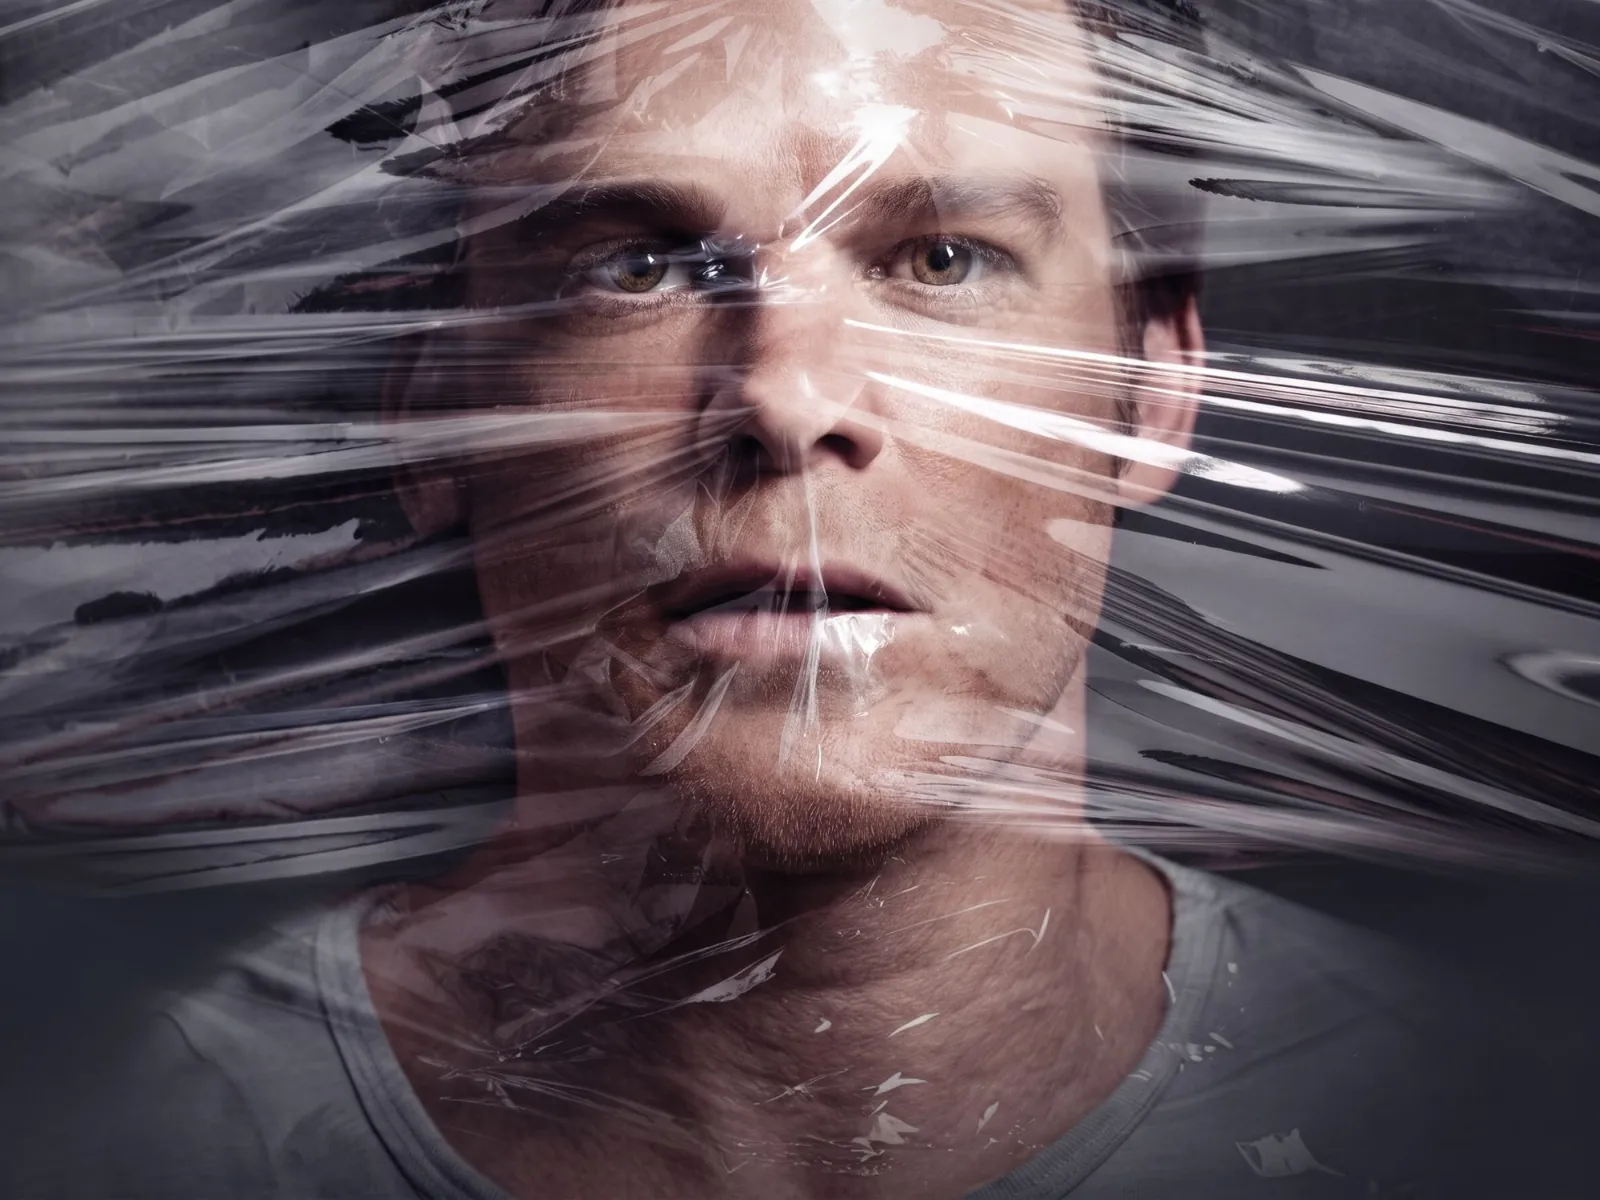
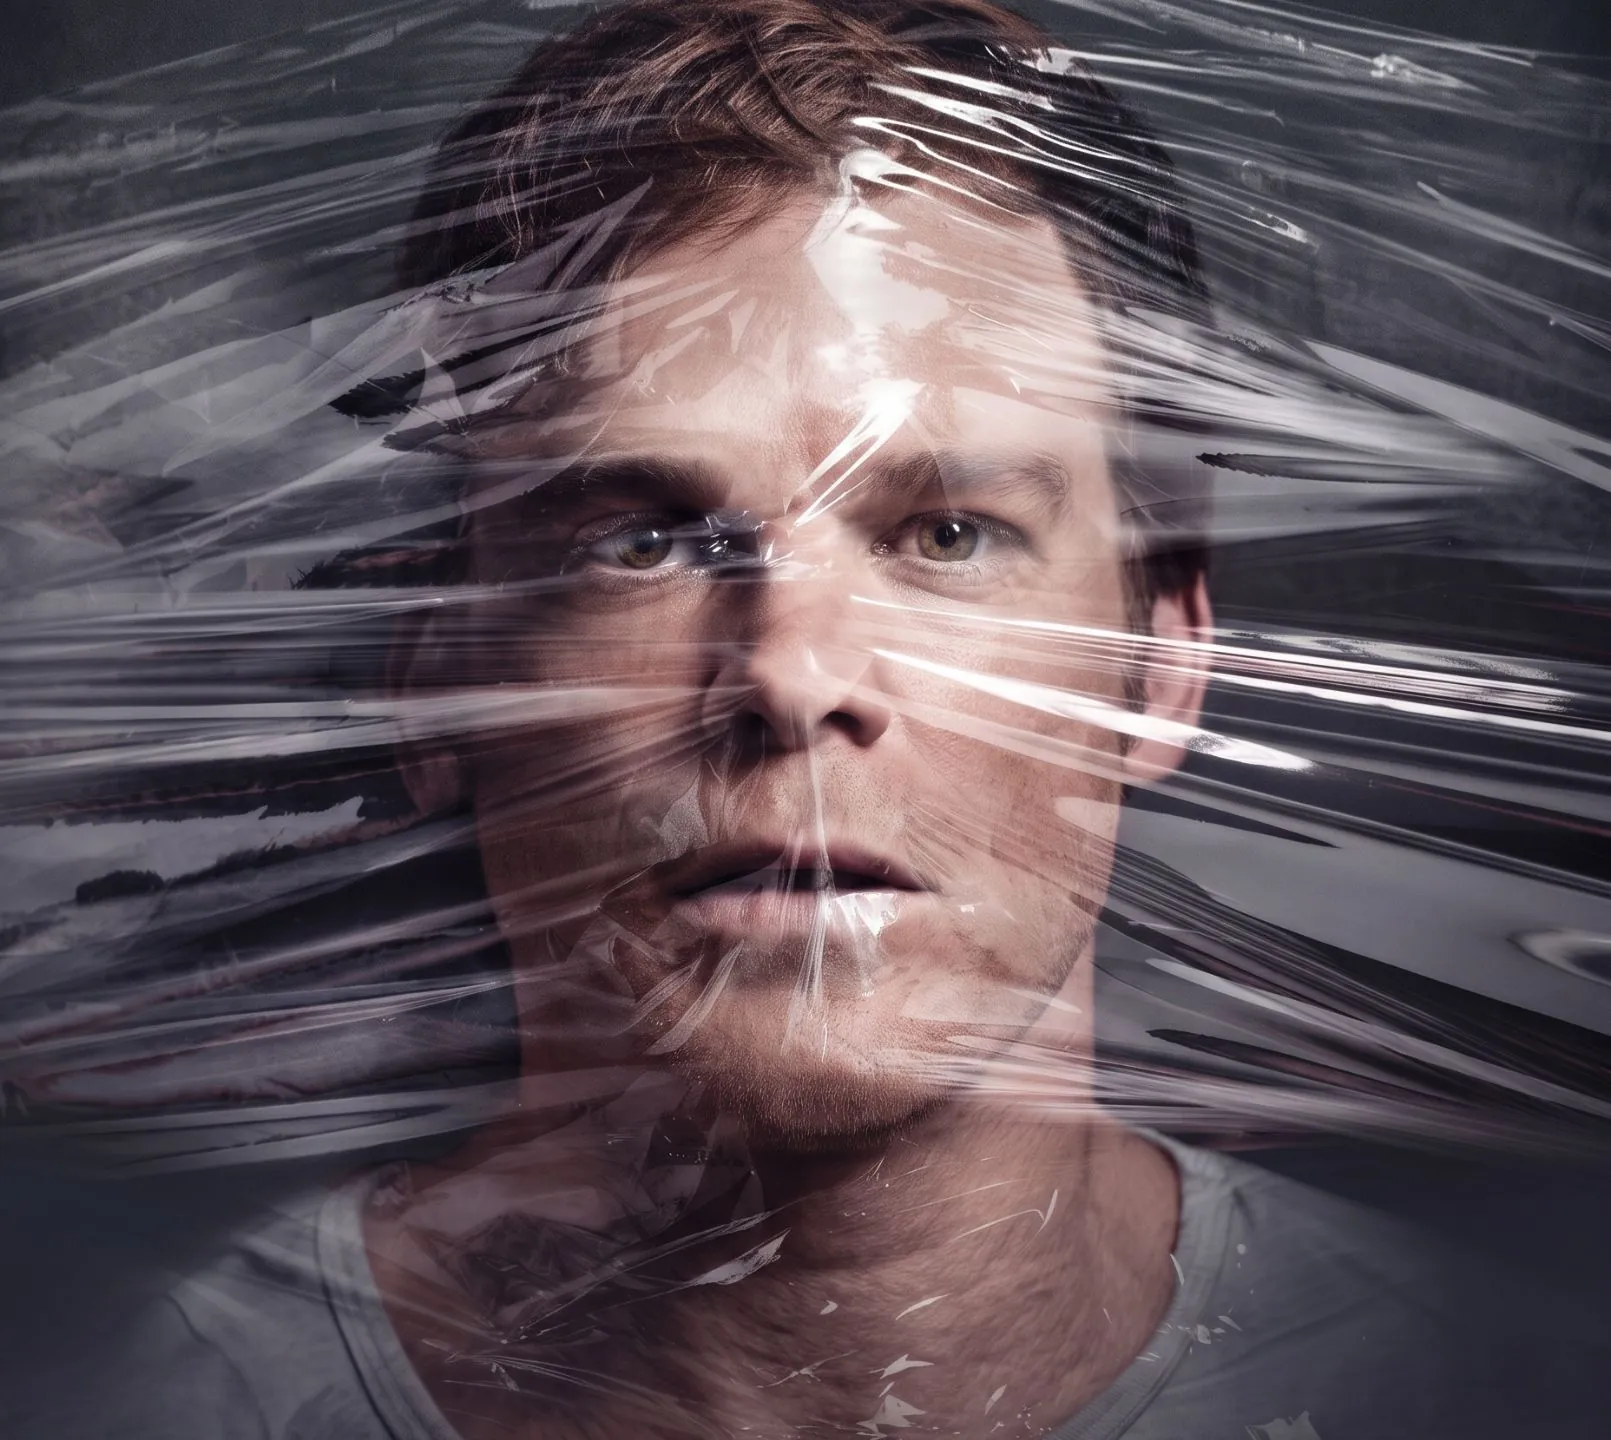
feat(count): new photo inside the 168 digits, drop the side rules
- Replace kill-count.webp with the cling-film portrait, cropped so the face
  sits at the vertical center.
- Make the parallax sizing ratio-agnostic (photo always covers the number)
  and lower MAX_ZOOM to 1.5 so more of the face shows.
- Remove the two rules beside "Vítimas do Passageiro Sombrio".

diff --git a/assets/js/main.js b/assets/js/main.js
@@ -1780,8 +1780,8 @@ class DexterBoxApp {
     const TOTAL = 168;
     // How much the photo follows the page: 0 = fixed to the screen, 1 = glued to the number
     const FOLLOW = 0.3;
-    const IMAGE_RATIO = 4 / 3; // kill-count.webp is 1600x1200
-    const MAX_ZOOM = 2.3; // photo width at most this many times the number's width
+    const IMAGE_RATIO = 1611 / 1440; // kill-count.webp is 1611x1440 (face centered vertically)
+    const MAX_ZOOM = 1.5; // photo width at most this many times the number's width
 
     let imgW = 0;
     let imgH = 0;
@@ -1806,10 +1806,11 @@ class DexterBoxApp {
       // Avoid zooming the face in too far: cap the zoom and soften the parallax instead,
       // so it still runs over the whole time the number is on screen
       const maxH = (number.offsetWidth * MAX_ZOOM) / IMAGE_RATIO;
-      if (imgH > maxH) {
-        imgH = Math.max(boxH, maxH);
-        drift = (imgH - boxH) / (2 * range);
-      }
+      // The photo must also be wide enough to cover the whole number (no bare edges)
+      const minH = Math.max(boxH, number.offsetWidth / IMAGE_RATIO);
+      if (imgH > maxH) imgH = maxH;
+      imgH = Math.max(imgH, minH);
+      drift = Math.min(1 - FOLLOW, (imgH - boxH) / (2 * range));
       imgW = imgH * IMAGE_RATIO;
       number.style.backgroundSize = `${imgW}px ${imgH}px`;
     };

diff --git a/index.html b/index.html
@@ -194,7 +194,7 @@
       <section id="count-section" class="story-section count-section" data-section="6" aria-labelledby="count-number">
         <div class="section-inner count-inner">
           <h2 id="count-number" class="count-number" aria-label="168 vítimas">168</h2>
-          <p class="count-label"><span class="count-rule" aria-hidden="true"></span>Vítimas do Passageiro Sombrio<span class="count-rule" aria-hidden="true"></span></p>
+          <p class="count-label">Vítimas do Passageiro Sombrio</p>
           <p class="count-copy">Eles achavam que ninguém estava olhando. Alguém estava.</p>
         </div>
       </section>

diff --git a/assets/css/style.css b/assets/css/style.css
@@ -436,14 +436,6 @@ html::-webkit-scrollbar-thumb:hover {
   }
 }
 
-.count-rule {
-  display: block;
-  width: clamp(28px, 6vw, 90px);
-  height: 1px;
-  background: currentColor;
-  opacity: 0.7;
-}
-
 .count-copy {
   max-width: 34ch;
   margin-top: 0.4em;
